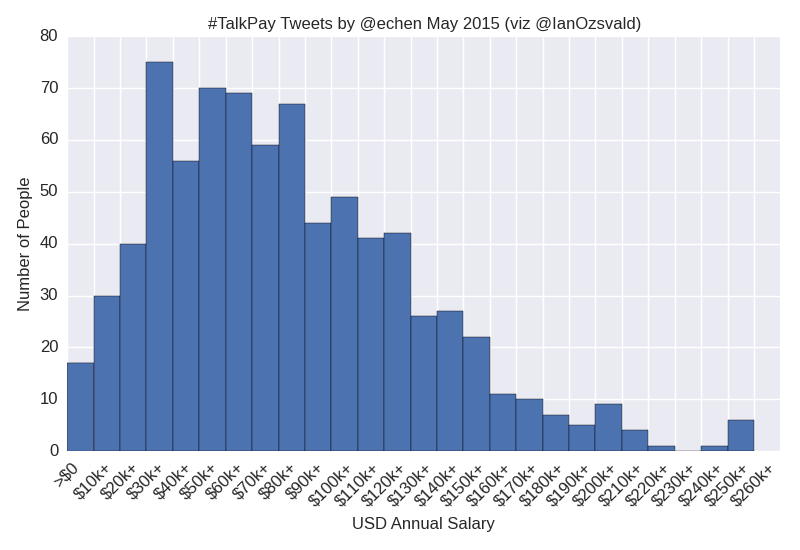
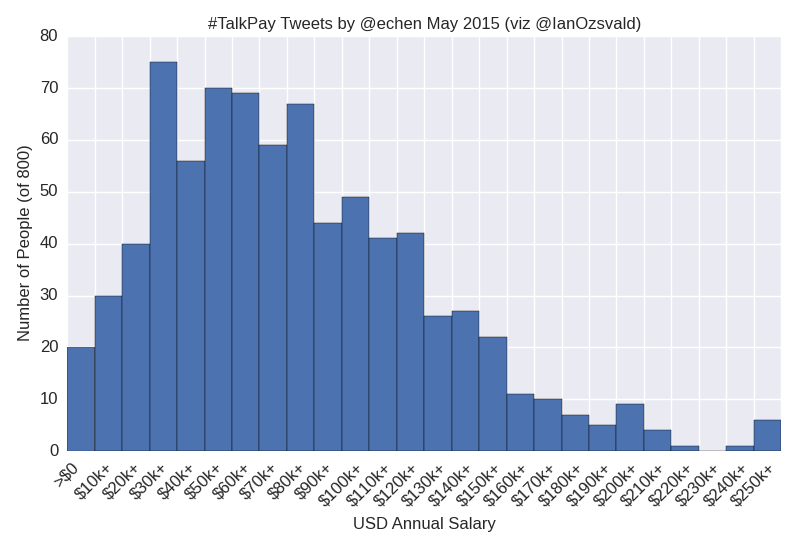
first

Changed region(s): [[0.0625, 0.1236, 1.0, 0.9582], [0.0, 0.2782, 0.0625, 0.6182]]

diff --git a/analysis1.py b/analysis1.py
@@ -4,13 +4,29 @@ import matplotlib.pyplot as plt
 import numpy as np
 import pandas as pd
 
+normed = True
+# filters can be an empty list, or positive items to extract from the data
+#text_filters = ['software', 'engineer', 'programmer']
+#text_filters = ['teach']  # teacher, teaching
+text_filters = []
+
 # load the data
 df = pd.read_csv("#TalkPay Tweets - Sheet1.csv")
 df['pay_'] = df['Yearly Pay'].map(lambda s: float(s.replace("$", "").replace(",", "")))
 df = df.ix[df['pay_'] > 0]  # filter at least $1000 (to remove guff tweets)
+
 # we could strip out data
-#df['sweng'] = df['Tweet'].map(lambda s: 'software' in s.lower() or 'engineer' in s.lower())
-#df = df[df['sweng']]
+def filter_keywords_present(s):
+    "True if any text_filters are present in lowercased s"
+    for fltr in text_filters:
+        if fltr in s.lower():
+            return True
+    return False
+
+if text_filters:
+    df['text_filter'] = df['Tweet'].map(filter_keywords_present)
+    print("Applying filter:", text_filters)
+    df = df[df['text_filter']]
 
 # set US locale
 locale.setlocale(locale.LC_ALL, 'en_US.utf8')
@@ -18,15 +34,17 @@ locale.setlocale(locale.LC_ALL, 'en_US.utf8')
 
 plt.figure(1)
 plt.clf()
-fontsize="medium"
-normed=True
+fontsize = "medium"
 x_max = 260001  # 280000
 step = 10000
 bins = np.arange(0, x_max, step)
 #x_labels = [locale.currency(x, grouping=True)[:-3]+"+" for x in np.arange(0, x_max, step)]
 x_labels = ["$"+str(x)[:-3]+"k+" for x in np.arange(0, x_max-1, step)]
 x_labels[0] = ">$0"
-res=plt.hist(df['pay_'], bins=bins, normed=normed, cumulative=normed)
+# Note that masked arrays aren't supportd by plt.hist, so we extract the raw
+# values
+pay = df['pay_'].values
+res=plt.hist(pay, bins=bins, normed=normed, cumulative=normed)
 ticks = plt.xticks(np.arange(0, x_max, step),
                    x_labels,
                    rotation=45,
@@ -43,8 +61,11 @@ if normed:
     for percentile in percentiles:
         plt.annotate("{:n}%".format(percentile*100), (10000, percentile+0.01))
 else:
-    plt.ylabel("Number of {} People".format(len(df)), fontsize=fontsize)
-plt.title("#TalkPay Tweets by @echen May 2015 (viz @IanOzsvald)")
+    plt.ylabel("Number of People (of {})".format(len(df)), fontsize=fontsize)
+title = "#TalkPay Tweets by @echen May 2015 (viz @IanOzsvald)"
+if text_filters:
+    title += "\nFiltered for any of: " + ", ".join(text_filters)
+plt.title(title)
 plt.xlim((0, x_max))
 plt.tight_layout()
 if normed:

diff --git a/README.md b/README.md
@@ -1,0 +1,12 @@
+Visualisation of @echen's #talkpay tweet/pay data scrape. Data from: 
+
+* https://twitter.com/echen/status/594353863374737409?s=03
+* https://docs.google.com/spreadsheets/d/1IK1an_x8buIveByENsAk6eww-mHIfZeYQxr7FBWPWz8/edit#gid=0
+* https://docs.google.com/spreadsheets/d/1IK1an_x8buIveByENsAk6eww-mHIfZeYQxr7FBWPWz8/htmlview?sle=true # not editable
+
+Run this script (note `normed` and `text_filters`), it'll generate an image and save it to a png.
+
+
+#![Summary of #talkpay pay data](talkpay_summary.png)
+
+#![Image of Yaktocat](https://octodex.github.com/images/yaktocat.png)
